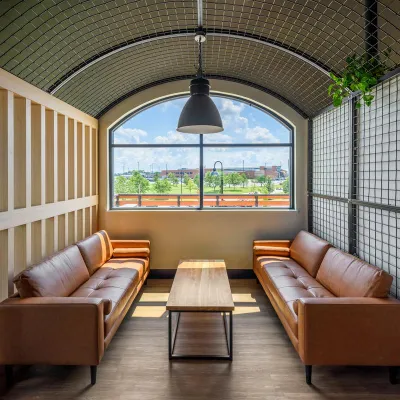
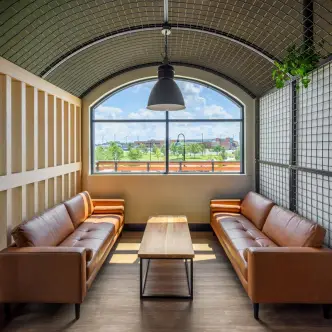
Fix LCP: convert background-image to img tag, resize images to exact display size, add cache headers
- Converted section-welcome background-image to <img> with fetchpriority=high (eliminates 1.9s render delay)
- Resized gallery images to exact 332x332 display dimensions
- Compressed welcome-768x512 harder
- Added Cache-Control headers for all assets (1 year immutable)
- Fixes the 3,609KB cache lifetime warning on hero video

diff --git a/index.html b/index.html
@@ -82,7 +82,9 @@
     .nav-left a,.nav-right a{font-family:Anton,sans-serif;text-transform:uppercase;color:#fff;text-decoration:none;font-size:clamp(.875rem,.875rem + ((1vw - .2rem)*.542),1.2rem)}
     .hero{position:relative;width:100%;height:85vh;min-height:500px;overflow:hidden}
     .hero-video{position:absolute;inset:0;width:100%;height:100%;object-fit:cover}
-    .section-welcome{position:relative;padding:60px 0;background-size:cover;background-position:center;background-repeat:no-repeat}
+    .section-welcome{position:relative;padding:60px 0;overflow:hidden}
+    .section-welcome-bg{position:absolute;inset:0;width:100%;height:100%;object-fit:cover;z-index:0}
+    .section-welcome .container{position:relative;z-index:1}
     .container{width:90%;max-width:1280px;margin:0 auto}
   </style>
 
@@ -254,7 +256,8 @@
   <main>
 
     <!-- ========== WELCOME SECTION ========== -->
-    <section id="content" class="section-welcome" style="background-image: url('/assets/images/home/welcome_back.webp');">
+    <section id="content" class="section-welcome">
+      <img src="/assets/images/home/welcome_back.webp" alt="" class="section-welcome-bg" fetchpriority="high" width="1200" height="800">
       <div class="container">
         <div class="welcome-grid">
           <div class="welcome-text">
